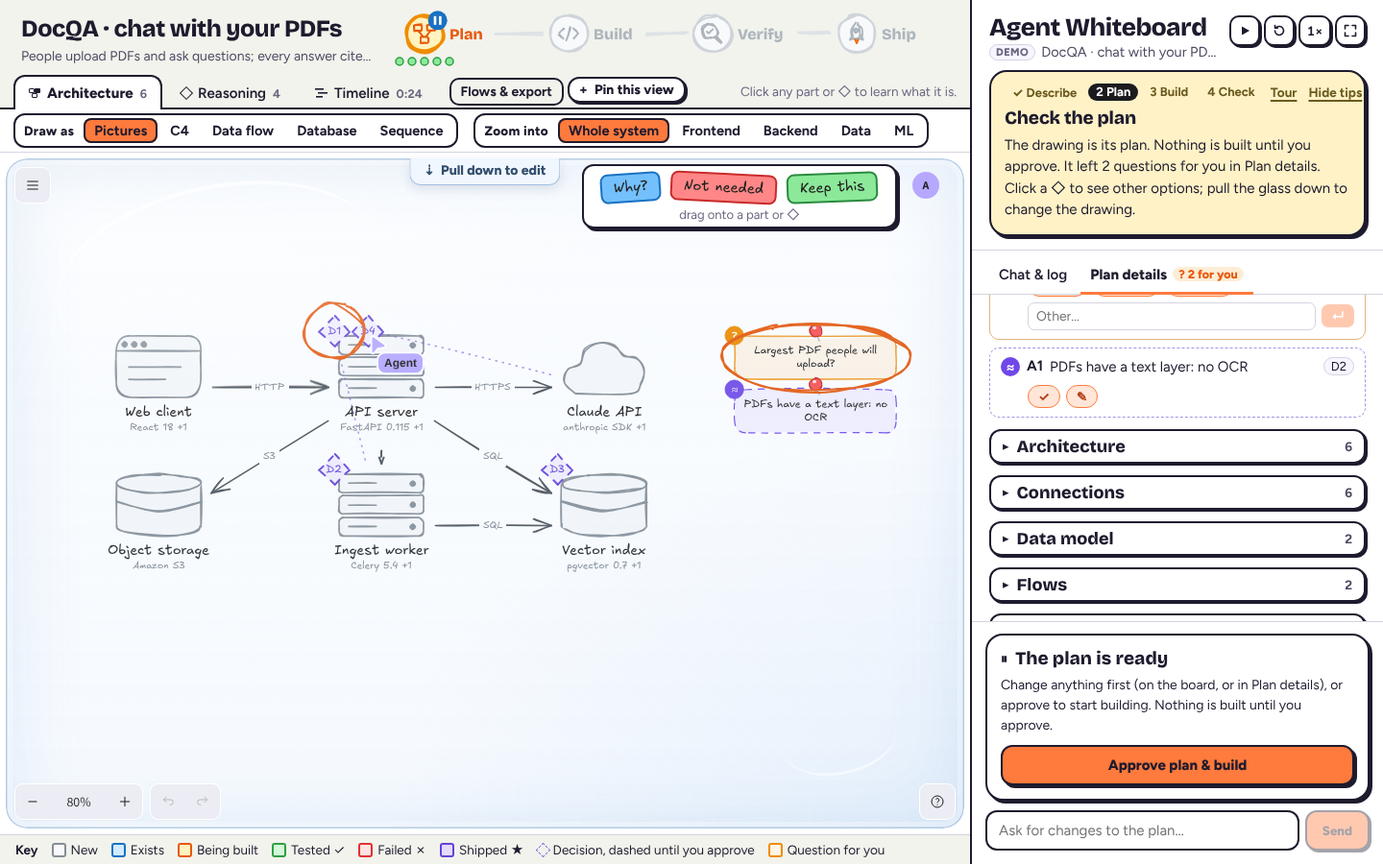
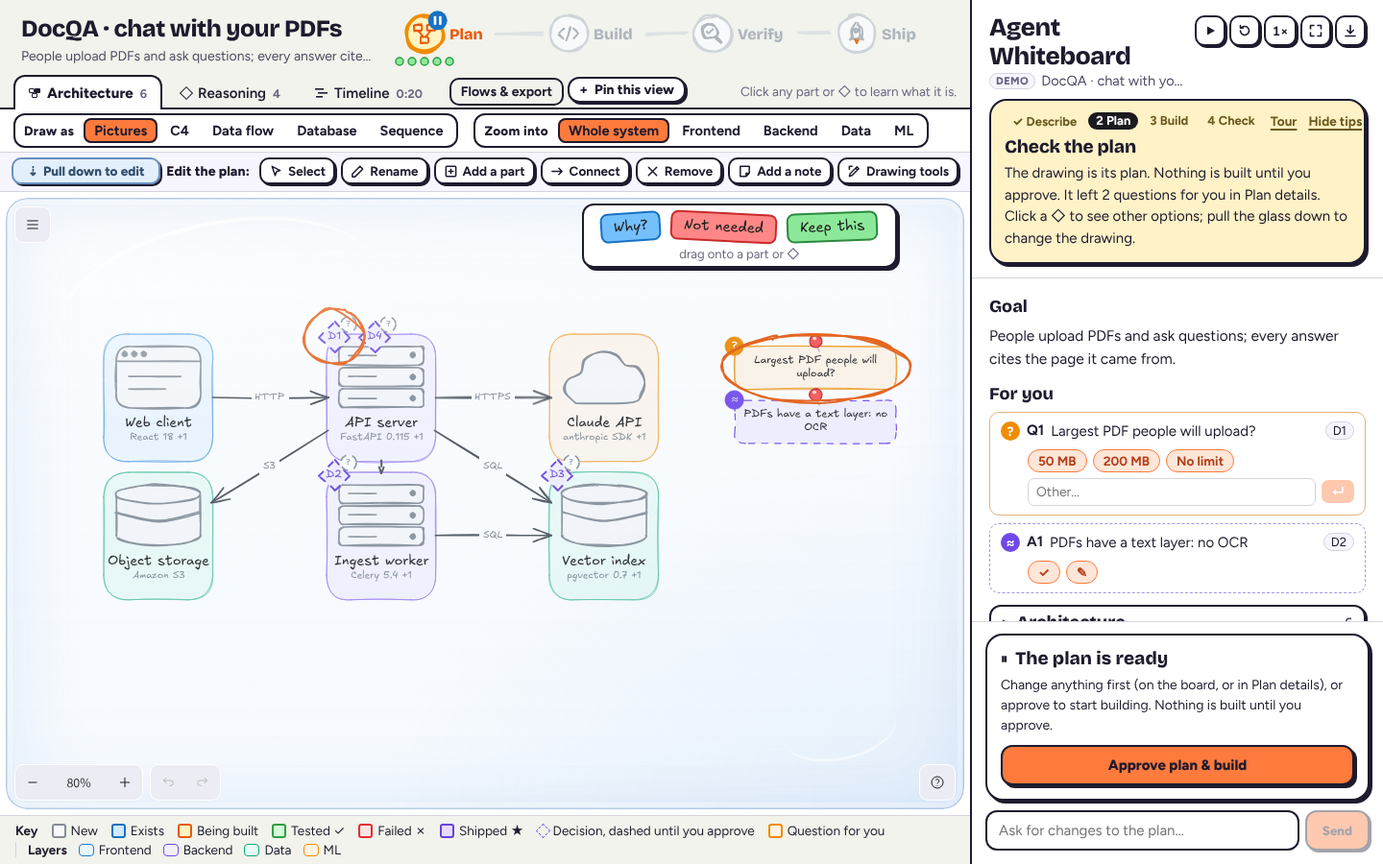
README: the new GUI, in words and pictures
The demo GIF still showed the old screen (panel on the left, Chat & log,
a Why tab, Excalidraw's Library). Retaken on the current UI, with the
same story: the plan with the coach and tips, D3 -> Pinecone, Approve
with changes, the build, the review and red pen, the Timeline. The
plan-gate, stickers and red-pen stills are retaken too.

In the text: a short "The screen" section (what's above the board, the
panel's title bar, the panel top to bottom); the board's tabs are
Architecture, Reasoning and Timeline everywhere; Plan details is the
panel's sections, not a tab; the tour's steps as they are now (the key,
click the part being built, other ways to see it, the last card); the
Agent badge rather than a top bar; tape and pins in every view; the
sticker tray's place; Download SVG/PNG; the hour an agent waits on you;
the six newest saved boards; and the file table (App.jsx, styles.css,
logfile.js, caption.js, four canvases) and what the tests cover.

Claude-Session: https://claude.ai/code/session_01RFXApA1jZnsxQmboS95fVP

diff --git a/README.md b/README.md
@@ -4,13 +4,21 @@ A real coding agent works in a repo while an Excalidraw board shows what it's do
 
 **New here?** Read the [step-by-step tutorial](docs/TUTORIAL.md) (no API key needed), or open the app and press **Take the tour**.
 
-![The demo: the agent plans on the board while the coach says what to do, tips point at a decision and a part; you click D3, press Use this on Pinecone, approve with changes; it builds, tests and ships; then the review card and the Timeline](screenshots/demo.gif)
+![The demo: the agent draws its plan while the coach card says what to do and orange circles ring a decision and a question; you click D3, press Use this on Pinecone and Approve with changes; it builds, tests and ships; the review lists what to check and the red pen marks a false claim; then the Timeline](screenshots/demo.gif)
 
-The board is pictures, not prose. Components are hand-drawn pictograms (browser window, server rack, database cylinder, cloud, queue, clipboard, person) with a short name; status is color plus a corner badge (… building, ✓ verified, ✗ failed, ★ live). Above the board, the project's name and goal sit beside the four phases, drawn as milestones on a road (Plan → Build → Verify → Ship) with a dot per task: hover one to read it, click to open it in Plan details. Below that, the board has a tab per canvas: **Architecture** (what's being built; edit it to steer), **Why** (the reasoning behind it) and **Timeline** (how that reasoning moved over the run). Words stay in the side panel.
+The board is pictures, not prose. Components are hand-drawn pictograms (browser window, server rack, database cylinder, cloud, queue, clipboard, person) with a short name; status is color plus a corner badge (… building, ✓ verified, ✗ failed, ★ live). Above the board, the project's name and goal sit beside the four phases, drawn as milestones on a road (Plan → Build → Verify → Ship) with a dot per task: hover one to read it, click to open it in Plan details. Below that, the board has a tab per canvas: **Architecture** (what's being built; edit it to steer), **Reasoning** (why) and **Timeline** (how that reasoning moved over the run). Words stay in the panel on the right.
+
+## The screen
+
+The board takes the left of the window and the panel the right. Everything around the board has one look: paper, ink for text, outlines and hard shadows, one orange for actions, Bricolage Grotesque for headings and Figtree for reading. The boards themselves stay Excalidraw's hand-drawn sketch.
+
+- **Above the board:** the project and its four phases; the tabs (**Architecture**, **Reasoning**, **Timeline**) with **Flows & export** and **+ Pin this view**; **Draw as** and **Zoom into**; and **Edit the plan**, with the glass switch first. While the plan is editable, the sticker tray sits at the board's top right. The color key runs along the bottom.
+- **The panel's title bar:** a **Demo**, **Agent** or **Replay** badge (hover it to see the model and where it runs), then play or pause (■ stops a live agent), ↺ to start over, the speed (1×, 2×, 4×; not for a live agent), ⛶ to fit the board and ⇩ to download the log. With tips hidden, a flag (the tour) and **?** (tips) join them. Under the bar, a status line says what the agent is doing right now.
+- **The panel, top to bottom:** the coach; the agent's latest reply (**Its reply**) or why it stopped (**⚠ It stopped**); the review, when a run ends; then **Plan details**: the goal, what's waiting **For you**, and closed sections you open (Architecture, Connections, Data model, Flows, Code, Steps, Decisions), each with its count. The plan gate and command prompts sit at the bottom, above the message box.
 
 ## Take the tour
 
-New here? Open the app: the demo starts playing and a short intro pops up over it, with or without an API key (**Show me around** starts the tour). Take it again with **Take the tour** (on the start screen, as **Tour** beside the coach's Hide tips, or the flag button by **?**). The scripted demo plays as a lesson: no API key, nothing touches your files. Each step points at one thing you can try: click a ◇ decision, pick another option with **Use this** (or drag a sticker onto a part), answer its question, **Approve with changes**, hover a log line while it builds, answer a command prompt (**Allow once**, **Allow all** or **Deny**, and *Why am I asked?*), open **Reasoning** when a check fails and the decision changes, find the claim that isn't true (the ✗ row in the review, or the red pen), and read the **Timeline**. The screen dims round the part each step is about, and its card pops out beside it, with Back, **Next** (it does the step for you if you haven't) and Exit tour.
+New here? Open the app: the demo starts playing and a short intro pops up over it, with or without an API key (**Show me around** starts the tour). Take it again with **Take the tour** (on the start screen, as **Tour** beside the coach's Hide tips, or the flag button by **?**). The scripted demo plays as a lesson: no API key, nothing touches your files. Each step points at one thing you can try: watch it plan (the key under the board says what the colors mean), click a ◇ decision, pick another option with **Use this**, answer its question, **Approve with changes**, click the orange part it's building to see what it's changing, answer a command prompt (**Allow once**, **Allow all** or **Deny**, and *Why am I asked?*), open **Reasoning** when a check fails and the decision changes, find the claim that isn't true (the ✗ row in the review, or the red pen), read the **Timeline**, and see the same plan other ways (**Draw as**, **Zoom into**). The screen dims round the part each step is about, and its card pops out beside it, with Back, **Next** (it does the step for you if you haven't) and Exit tour. The last card offers **See saved runs** (and **Start your own task**, with an API key).
 
 ![The tour at step 4: the screen dims round the decision's card, an orange ring marks Use this, and the yellow tour card pops out beside it to say what to do and why](screenshots/tour/04-use-this.png)
 
@@ -25,7 +33,7 @@ The app walks a newcomer through a run without hiding anything. **Hide tips** tu
 - **Glass.** The board sits behind glass: clicks explain, nothing moves. **Pull down to edit** (first in Edit the plan, above the board) lowers it and becomes **Glass back up**, in the same spot; **Submit** sends your changes and puts the glass back. Any Edit the plan button, and Use this, Rename and Remove on a card, pull it down for you.
 - **Edit the plan.** A toolbar with words above the board: Select, Rename, Add a part, Connect, Remove, Add a note. Each picks the matching Excalidraw tool and says what to do next; the gestures (double-click, Delete, drawing) still work. Excalidraw's full toolbar is behind **Drawing tools**.
 - **Click to explain.** Select a part, a ◇, an arrow or a question and a card says what it is in plain words (what a service is, its status, routes, files, decisions, connections), with its actions as buttons: Rename, Remove, Ask about it, See the code; for a decision, **Use this** on each option, Ask why and Reject it; for a question, its answers.
-- **Plain words.** Symbols come with a word: receipts read "✓ checked", "✗ not true", "? can't tell"; the panel is **Plan details**, with counts like "2 for you"; a key under the Pictures board says what the colors mean; a command prompt says what the command is for and why you're asked.
+- **Plain words.** Symbols come with a word: receipts read "✓ checked", "✗ not true", "? can't tell"; each section of **Plan details** shows its count, and a bell on Decisions counts the ones to look at (not approved yet, changed, or failed their check); a key under the Pictures board says what the colors mean; a command prompt says what the command is for and why you're asked.
 
 ## Views and exports
 
@@ -54,7 +62,7 @@ The bar above the board shows the same plan other ways:
 **Flows & export**, beside the board tabs:
 
 - **Show a flow**: the path a request takes, its steps numbered on the arrows and listed in a card. In Sequence it picks the flow.
-- **Export** what the board shows: **Copy Mermaid** (each view has its Mermaid form: flowcharts, `erDiagram`, `sequenceDiagram`, and a flowchart with a subgraph per component for a layer; GitHub renders them in a README or PR), **SVG** or **PNG** with a title.
+- **Export** what the board shows: **Copy Mermaid** (each view has its Mermaid form: flowcharts, `erDiagram`, `sequenceDiagram`, and a flowchart with a subgraph per component for a layer; GitHub renders them in a README or PR), **Download SVG** or **Download PNG**, with a title.
 
 The agent supplies what these need: flows (`flow` op), tables (`table` op), each component's layer, and the parts inside components (`part` op: name, kind, its layer when it differs, and what it hands on). A component with no parts shows what it exposes (its `api`) and its tables. The Plan details lists the flows and the data model too, and names are kept in sentence case.
 
@@ -94,7 +102,7 @@ Three settings in `.env.local`. Leave them all empty and the scripted demo plays
 | OpenAI, Gemini and others through [LiteLLM](https://docs.litellm.ai/docs/proxy/client_setup/claude_code) | `http://localhost:4000` | its key | a `model_name` from its config |
 | Many models through [OpenRouter](https://openrouter.ai/docs/guides/guides/claude-code-integration) | `https://openrouter.ai/api` | your OpenRouter key | e.g. `moonshotai/kimi-k2` |
 
-Restart `npm run dev` after changing them; the top bar shows where the agent is running. For Ollama, first run `ollama pull qwen3-coder` and start the server with enough context: `OLLAMA_CONTEXT_LENGTH=64000 ollama serve`.
+Restart `npm run dev` after changing them; the **Agent** badge at the top of the panel shows where the agent is running (hover it). For Ollama, first run `ollama pull qwen3-coder` and start the server with enough context: `OLLAMA_CONTEXT_LENGTH=64000 ollama serve`.
 
 - **How it works:** the agent is the [Claude Agent SDK](https://code.claude.com/docs/en/agent-sdk) (the engine behind Claude Code): its file and shell tools, permission prompts, plan mode and the board's `update_board` tool. The server passes these three settings to it as the variables it reads. For a URL other than Anthropic's, the same model also does the SDK's background work.
 - **Non-Claude models are unofficial.** The board needs a model that calls tools reliably, because it draws only through `update_board`. A weaker model may write the code but draw little on the board. Use the strongest coding model you can run, with at least 64K of context. Only Anthropic's API has been tested with this app so far.
@@ -103,7 +111,7 @@ Restart `npm run dev` after changing them; the top bar shows where the agent is 
 
 ### Codex
 
-To run [OpenAI's Codex](https://developers.openai.com/codex) instead of Claude: install it and sign in (`npm i -g @openai/codex`, then `codex login`, or set `OPENAI_API_KEY`), and put `AGENT_ENGINE=codex` in `.env.local`. `AGENT_MODEL` and `AGENT_EFFORT` pick its model and effort (leave them empty for Codex's defaults); `CODEX_BIN` points at a `codex` that isn't on your PATH. Restart `npm run dev`: the top bar says Codex.
+To run [OpenAI's Codex](https://developers.openai.com/codex) instead of Claude: install it and sign in (`npm i -g @openai/codex`, then `codex login`, or set `OPENAI_API_KEY`), and put `AGENT_ENGINE=codex` in `.env.local`. `AGENT_MODEL` and `AGENT_EFFORT` pick its model and effort (leave them empty for Codex's defaults); `CODEX_BIN` points at a `codex` that isn't on your PATH. Restart `npm run dev`: hovering the **Agent** badge says Codex.
 
 It's the same board and the same steps. The differences:
 
@@ -120,7 +128,7 @@ It's the same board and the same steps. The differences:
 1. **Plan.** The agent starts in plan mode: it can read the repo but not change it. It draws the components the task involves (existing ones blue, new ones grey) and their connections, then asks to exit plan mode. That request waits for you: the board shows ⏸ on the Plan milestone.
 2. **Review.** Edit the board (see [Steering from the board](#steering-from-the-board)) or type a request. **Revise plan** (or **Submit** on the board) sends your changes back so the agent re-plans; **Approve with changes** folds them in and goes on to build; **Approve plan & build** goes straight on.
 3. **Build and verify.** The agent edits files (allowed automatically inside the repo) and the component that owns each file turns orange. It asks before every shell command: **Allow once**, **Allow all** for the rest of the run, or **Deny**. Components turn green when verified, purple ★ when done.
-4. **Afterwards** the session stays open: board edits and messages become new turns. Stop the agent with ■, start over with ↺. Closing the tab stops it, and an idle agent stops after 15 minutes.
+4. **Afterwards** the session stays open: board edits and messages become new turns. Stop the agent with ■, start over with ↺. Closing the tab stops it, and an idle agent stops after 15 minutes (an hour while it waits on you).
 
 ## Steering from the board
 
@@ -139,7 +147,7 @@ Queued changes show in the panel by area, and **Submit** (panel, or floating on 
 
 ![Two stickers on the plan, each with its answer in a bubble beside it: Why? on D3, and Not needed where Object storage was](screenshots/stickers/1-stickers-on-the-plan-light.png)
 
-Three stickers sit in a tray at the top of the board, always in sight. Drag one onto a part or a decision diamond (the glass comes down by itself):
+Three stickers sit in a tray at the board's top right, in sight whenever the plan is editable. Drag one onto a part or a decision diamond (the glass comes down by itself):
 
 | Sticker | On a part | On a ◇ | Area |
 | --- | --- | --- | --- |
@@ -152,13 +160,13 @@ A sticker goes to the agent as soon as you drop it, and its answer pops up in a 
 ## Marks on the board
 
 - **Red pen on the review.** When a run ends, the board gets marked like homework: a rough red ring round the part that owns a file a false claim names, a red ✗ scribbled over a decision whose check failed (it comes off once a later test run proves it), and, for a false claim about a file no part owns, a red note under the board ("✗ README.md · not on the board"). Click a mark to open its sentence or its decision. The marks go when the next round starts; they're never exported.
-- **Tape and pins.** Your notes are taped to the board with a strip of washi tape; the agent's questions and assumptions are pinned up with a red push pin, so whose note is whose shows at a glance. C4 and Data flow are flat diagrams, so they go without. Exports include them.
+- **Tape and pins.** Your notes are taped to the board with a strip of washi tape; the agent's questions and assumptions are pinned up with a red push pin, so whose note is whose shows at a glance, in every view. Exports include them.
 
 ![The red pen after the demo: a ring round the web client (which owns README.md here), a ✗ over D2's failed check](screenshots/stickers/4-red-pen-failed-check-light.png)
 
 ## The reasoning behind the plan
 
-The board shows what is being built; the **Plan** tab shows why.
+The board shows what is being built; **Plan details**, in the panel, shows why.
 
 - **Goal:** one line on what the task is for.
 - **Architecture:** each component with its libraries and versions, the interface it exposes (routes, functions, tables) and the files that own it. On the board, libraries are a small caption under the pictogram.
@@ -187,7 +195,7 @@ Don't take the agent's word for it. Glyphs and counts, details on hover:
 - **Receipts.** After a checkable claim: ✓ checked, ✗ not true (with the one wrong thing, e.g. "✗ not true: README.md"), ? can't tell. Test claims vs the runner's counts, file claims vs git, "I ran X" vs the commands run. ✗ comes only from the runner or git. They show on what it said wherever the panel shows it (its reply, a line you opened), and in the downloaded log.
 - **What it changed.** Git, not the agent's summary: the working tree vs how the run found it (untracked included, your index untouched). Components show +/− blocks; Plan details → **Code** has every diff by component, plus files **not on board**.
 - **Questions and assumptions.** "?" and "≈" sticky notes. Plan details → **For you**: pick an option or type (↵), confirm ✓ or correct ✎. Ones only said in prose: **In passing**.
-- **The log.** The panel shows the plan, not a chat log. What it says to you shows at the top of the panel: its reply to what you typed ("⋯ n" opens a long one), and errors. **⇩** in the panel's toolbar downloads the whole log as Markdown: what you asked and changed, what it said (with receipts) and did, and the review.
+- **The log.** The panel shows the plan, not a chat log. What it says to you shows as a card at the top of the panel: **Its reply** to what you typed ("⋯ n" opens a long one), or **⚠ It stopped** with the error; ✕ closes it. **⇩** in the panel's toolbar downloads the whole log as Markdown: what you asked and changed, what it said (with receipts) and did, and the review.
 - **Review.** When a run ends, at the top of the panel: failed/unchecked checks, false or unverified claims, open questions, changed and unowned files, commits, last test run, denied commands. Each chip links to its card, the diff, or the sentence (shown above the review with its receipt).
 
 The demo shows all five, including a false claim (a README it never touched) and a question buried in its summary.
@@ -199,11 +207,11 @@ Every run is saved in `recordings/` (git-ignored) while it happens:
 - `<id>.jsonl`: every event with its time: what the agent drew, said, read, edited and ran, and what you did (approvals, board edits, messages, allowed or denied commands). It's also where the agent's session id is kept.
 - `<id>.decisions.md`: a readable log of the development decisions. It's the handoff document for whoever picks the work up next. It opens with the current plan (goal, an architecture table with layers, libraries and interfaces, the diagrams as Mermaid (container view, data flow, data model, and each flow), connections, its questions and assumptions, the files it changed and which component owns each, and each decision with what it beat, why, its evidence, what it replaced and why, its check and its proof), then a timeline: the plan the agent proposed, what you approved, challenged or changed, every decision the agent revised, each decision proven or failed (by the agent or by a test run), every command you allowed, and how the run ended, each with its time.
 
-The start screen lists saved boards. **Replay** plays a run back on the board at its own rhythm (long waits are shortened, and pause and speed work as usual). **Open** jumps straight to the finished board. **Decisions** opens the decision log. A finished live run also links to its replay and decision log.
+The start screen lists the six newest saved boards. **Replay** plays a run back on the board at its own rhythm (long waits are shortened, and pause and speed work as usual). **Open** jumps straight to the finished board. **Decisions** opens the decision log. A finished live run also links to its replay and decision log.
 
-**The board is a living document.** **Done** on a saved run keeps its board (played to the end) instead of clearing it. With an API key, whatever you send next (a message, board edits, a sticker) starts a new session on that board: the server rebuilds the board for itself from the saved run, gives the agent that run's decision log as its handover (plus the board as it is now), and records the new run as carrying on from it (`from` in its recording, "Carries on from" in its decision log). The agent keeps the parts, decisions and ids and changes what the new task needs; new decisions continue the numbering. Replaying or opening the new run starts from the board it carried on from, all the way back. A live run whose agent has stopped (idle, ⏹, or an error) carries on the same way. ↺ still starts over from an empty board.
+**The board is a living document.** **Done** on a saved run keeps its board (played to the end) instead of clearing it. With an API key, whatever you send next (a message, board edits, a sticker) starts a new session on that board: the server rebuilds the board for itself from the saved run, gives the agent that run's decision log as its handover (plus the board as it is now), and records the new run as carrying on from it (`from` in its recording, "Carries on from" in its decision log). The agent keeps the parts, decisions and ids and changes what the new task needs; new decisions continue the numbering. Replaying or opening the new run starts from the board it carried on from, all the way back. A live run whose agent has stopped (idle, ■, or an error) carries on the same way. ↺ still starts over from an empty board.
 
-In a replay the Timeline shows the whole run, with what hasn't happened yet faded and the now line following playback. It's a scrubber: click any moment (a mark, or anywhere along the axis) and the board, the phases and the panel jump to that point and pause there; play continues from it. Recordings made before the server recorded what caused a change still show it: a decision that changed right after you asked for something changed because of you (the Plan and Why tabs say so too), and a test run the agent said had failed counts as failed.
+In a replay the Timeline shows the whole run, with what hasn't happened yet faded and the now line following playback. It's a scrubber: click any moment (a mark, or anywhere along the axis) and the board, the phases and the panel jump to that point and pause there; play continues from it. Recordings made before the server recorded what caused a change still show it: a decision that changed right after you asked for something changed because of you (Plan details and the Reasoning tab say so too), and a test run the agent said had failed counts as failed.
 
 Select a component to see what changed it: its card lists its files with +/−, and **See the code** opens the diffs in Plan details. The downloaded log (**⇩**) lists everything the agent read, edited and ran, and whether each command passed.
 
@@ -224,13 +232,15 @@ The agent loads the repo's project settings and `CLAUDE.md`, not your global Cla
 | `server/repos.js` | Picking the repo: a folder's subfolders for Browse (names only, git repos marked), and Clone (`git clone` into `sandbox/`) |
 | `server/instructions.js` | What the agent is told about the board (appended to the Claude Code system prompt) |
 | `src/agent/live.js` | Browser side of `/api/runs`: start, follow the event stream, send approvals and messages, list folders, clone |
+| `src/App.jsx` | The whole screen: the board's bars and tabs, Edit the plan and the glass, the sticker tray, pinned views, the explain cards, and the panel (title bar, coach, cards, review, Plan details, gate, prompts) |
+| `src/styles.css` | The look: paper, ink outlines and hard shadows, one orange, Bricolage Grotesque and Figtree |
 | `src/RepoPicker.jsx` | The start screen's Repository field, with Browse and Clone |
-| `src/engine/session.js` | Routes agent events to the board and the transcript; plan gate and permission state; keeps the run's timed events for the Timeline and seeks replays |
-| `src/engine/board.js` | Owns the three Excalidraw canvases: the Architecture pictograms and decision diamonds, the Why chains, the Timeline, highlighter marks, and `diff()` of your edits |
+| `src/engine/session.js` | Routes agent events to the board and the transcript; plan gate and permission state; keeps the run's timed events for the Timeline and seeks replays; keeps a finished board and carries on from it |
+| `src/engine/board.js` | Owns the four Excalidraw canvases: the Architecture pictograms and decision diamonds, the Reasoning chains, the Timeline, and the read-only Database and Sequence diagrams; highlighter marks, and `diff()` of your edits |
 | `src/engine/timeline.js` | The Timeline as pure functions: `buildTimeline(events)` (lanes, marks, causes, the time axis with compressed waits), `timeToX`, `drawTimeline` (Excalidraw skeletons) |
 | `src/engine/palette.js` | Phases and the colors the canvases share |
 | `src/engine/views.js` | The views of one model, shared with the server: C4 labels, layers and what's inside them (parts, links), flows, data-flow roles and numbering, table columns, sentence case, and every Mermaid export |
-| `src/engine/diagrams.js` | The read-only diagrams as Excalidraw skeletons: the data model (ER), a flow as a sequence diagram, and a layer zoomed into |
+| `src/engine/diagrams.js` | The read-only diagrams as Excalidraw skeletons: the data model (ER), a flow as a sequence diagram, and a layer's inside for a pinned view |
 | `src/engine/claims.js` | Receipts: finds checkable claims in the agent's sentences (and questions or assumptions said in passing) and checks them against the run's record |
 | `src/engine/review.js` | The end-of-run review card: what needs a look, and where; and the red-pen marks for the board |
 | `src/engine/explode.js` | A layer opened up in place: what each component bursts into, where the pieces go, their icons |
@@ -239,10 +249,11 @@ The agent loads the repo's project settings and `CLAUDE.md`, not your global Cla
 | `src/engine/spotlight.js`, `src/Tour.jsx` | The tour on screen: the dim with the step's part lit, and its card popped out beside it |
 | `src/PhaseHeader.jsx` | The journey above the tabs: title, goal, milestones and task dots, drawn with roughjs (Excalidraw's renderer) |
 | `src/engine/transcript.js` | Sentences and activity rows, each linked to the board items it touched |
+| `src/engine/logfile.js`, `caption.js` | The log as Markdown (⇩), and the status line's one-line caption for each board op |
 | `src/engine/parser.js`, `player.js`, `src/agent/script.js`, `replies.js` | The scripted demo (inline `<board/>` tags typed out at reading pace) |
 | `scripts/make-sandbox.mjs` | Creates the sample repo |
 | `scripts/tour-check.cjs` | Takes the tour end to end in headless Chromium (Playwright) with screenshots, then checks the plain demo is unchanged |
-| `test/*.test.js` | `npm test`: the Timeline over the sample runs in `fixtures/recordings/`, claims and receipts, the review card, stickers and the red pen, the tour's steps, the views and their Mermaid exports, the decision log's diagrams, git change tracking on a throwaway repo, and picking the repo (folder listing, git URLs, clones from a throwaway repo) |
+| `test/*.test.js` | `npm test`: the Timeline over the sample runs in `fixtures/recordings/`, claims and receipts, the review card, stickers and the red pen, the tour's steps, the views and their Mermaid exports, the decision log's diagrams, git change tracking on a throwaway repo, picking the repo (folder listing, git URLs, clones from a throwaway repo), a layer opened up in place, where the tour's card goes, the downloaded log, carrying on from a saved board, the board's MCP server, and the runs API refusing cross-site POSTs. The Codex end-to-end tests run only with `CODEX_BIN` set |
 
 Board ops (`update_board` tool and demo tags alike): `project`, `phase`, `task`, `node` (with `layer`), `part`, `edge`, `flow`, `table`, `decision`, `question`, `assumption`, `status`, `rename`, `note`, `remove`, `unlink`, `adopt`, `adopt-edge`, `adopt-note`. See `Board.apply()`. The demo's script also uses `diff` and `run` to stand in for what a live run gets from git and the test runner, and `ask` (a command prompt) and `tour` (a checkpoint) that only do something during the tour.
 

diff --git a/HANDOFF.md b/HANDOFF.md
@@ -386,7 +386,7 @@ Element id conventions: nodes `node-<id>` (+ `:label`, `:libs`, `:badge`…), ed
   - `shot file.png`; `record dir 1500` captured the real-time frames in `screenshots/live-run/`.
   - In a Linux cloud box there's no `/Applications/Google Chrome.app`; use any Chromium (the cloud image has one at `/opt/pw-browsers/chromium-*/chrome-linux64/chrome`; add `--no-sandbox`) with the same flags.
   - `drag x1 y1 x2 y2` is a real mouse drag (how the drag-to-choose check ran).
-  - The README GIF (`screenshots/demo.gif`) was made from `Page.startScreencast` frames (with a fake cursor div, since headless frames have none) of a scripted demo run, time-warped per segment and encoded with ffmpeg (`palettegen stats_mode=diff`, `paletteuse diff_mode=rectangle`, 1000 px, 10 fps): 40 s, 1.8 MB. Refreshed for the first-time help UI (coach, tips, explain card, Use this on D3 → Pinecone, review, Timeline): Playwright screenshots in a loop (~10 fps) with a fake cursor div, each frame tagged with a time warp (3× planning, 4× building, 1× for the clicks), an ffmpeg concat list with per-frame durations, same palette filters: 35 s, 1.7 MB.
+  - The README GIF (`screenshots/demo.gif`) was made from `Page.startScreencast` frames (with a fake cursor div, since headless frames have none) of a scripted demo run, time-warped per segment and encoded with ffmpeg (`palettegen stats_mode=diff`, `paletteuse diff_mode=rectangle`, 1000 px, 10 fps): 40 s, 1.8 MB. Refreshed for the first-time help UI (coach, tips, explain card, Use this on D3 → Pinecone, review, Timeline): Playwright screenshots in a loop (~10 fps) with a fake cursor div, each frame tagged with a time warp (3× planning, 4× building, 1× for the clicks), an ffmpeg concat list with per-frame durations, same palette filters: 35 s, 1.7 MB. Retaken for the new look (panel on the right, Plan details only, sticker tray): the same story, with frames spaced 100 ms × warp apart in real time so each is 0.1 s of output (no concat list), and D3's card closed after Use this so the build shows: 44 s, 2.1 MB. The README's plan-gate, stickers and red-pen stills were retaken with it (the red pen staged as before: the web client owns README.md and D2's check failed).
   - Timeline: click a mark by mapping its element to client coords: `(e.x + e.width / 2 + st.scrollX) * st.zoom.value + st.offsetLeft` (same for y), with `st = window.__wb.board.timelineApi.getAppState()`. A live run can be simulated without a key by `await s.reset(); s.mode = "agent"` and feeding a recording's events to `s.onAgentEvent` on a timer. Narrow window: `Emulation.setDeviceMetricsOverride` over the same CDP socket.
 - **Tour:** with `npm run dev` running, `NODE_PATH=$(npm root -g) node scripts/tour-check.cjs <out-dir> [light|dark]` takes the tour from a first visit (where it starts by itself) to Finish with real clicks and hovers, screenshots each step, then Back / Next / Exit from the coach's Tour link, and a plain demo run (no tour, no prompt, no pause). About 4 minutes. It prints `ALL OK` or the failing step, with `failed.png`.
 - **Repo picker:** the start screen only shows with the agent status live, so start the dev server with any `ANTHROPIC_API_KEY` (a dummy works; don't start a task). `POST /api/runs {repo, brief: ""}` answers "Describe the task first." once the repo has passed its check, without starting an agent ("Not a folder: …" if it hasn't). Delete test clones from `sandbox/` afterwards.
